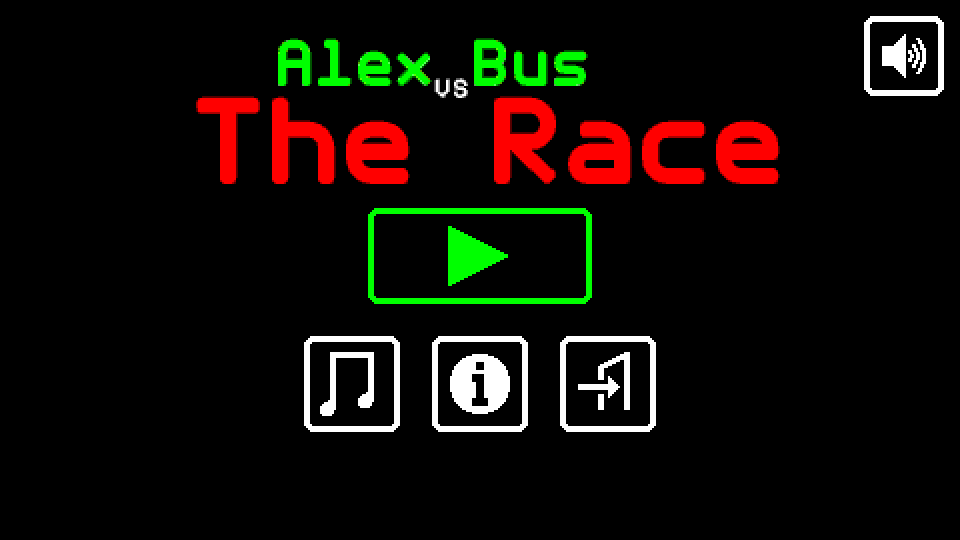
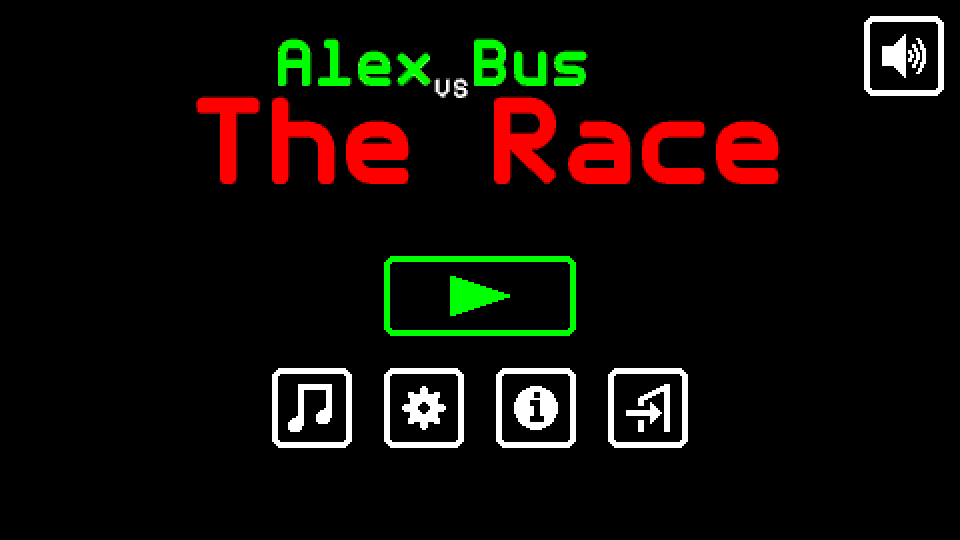
Pre-release: pre6

Changed region(s): [[0.2812, 0.3852, 0.7188, 0.8296]]

diff --git a/core/src/org/alexvsbus/Defs.java b/core/src/org/alexvsbus/Defs.java
@@ -393,7 +393,7 @@ public class Defs {
     //
 
     //Version and repository
-    public static final String VERSION = "pre5";
+    public static final String VERSION = "pre6";
     public static final String REPOSITORY = "https://github.com/M374LX/alexvsbus-java";
 
     //Maximum delta time

diff --git a/README.md b/README.md
@@ -51,9 +51,7 @@ When using a keyboard, the controls are:
 
 **F6:** Toggle audio
 
-**F7:** Toggle scanlines*
-
-*Scanlines are not yet available in a release, only in the main Git branch.
+**F7:** Toggle scanlines
 
 On French (AZERTY) keyboards, W becomes Z and A becomes Q.
 
@@ -83,7 +81,7 @@ After installing Java and downloading the .jar file, on Windows, a double-click
 on the .jar file should be enough to start the game. To start it from the CLI,
 the command is:
 ```
-java -jar alexvsbus-desktop-pre5.jar
+java -jar alexvsbus-desktop-pre6.jar
 ```
 
 
@@ -92,7 +90,7 @@ java -jar alexvsbus-desktop-pre5.jar
 On PC, the game supports some command line options. For example, to use the
 option --fullscreen, the full command is:
 ```
-java -jar alexvsbus-desktop-pre5.jar --fullscreen
+java -jar alexvsbus-desktop-pre6.jar --fullscreen
 ```
 
 The options are:
@@ -134,10 +132,6 @@ Supported height values:
 192
 ```
 
-**Note:** The options above refer to the latest commit and have changed since
-the latest pre-release. For the options available in the latest pre-release,
-see https://github.com/M374LX/alexvsbus-java/blob/pre5/README.md.
-
 
 ## Building from source
 
@@ -160,7 +154,7 @@ systems (including Linux):
 
 On Windows, replace "./gradlew" with "gradlew.bat".
 
-The built .jar file will be at ``desktop/build/libs/desktop-pre5.jar``.
+The built .jar file will be at ``desktop/build/libs/desktop-pre6.jar``.
 
 Alternatively, the following command allows running the game without keeping the
 build:
@@ -215,8 +209,8 @@ On Windows, replace "./gradlew" with "gradlew.bat".
 ## Project status and plans
 
 While it is quite close to becoming a finished game, there are still plans to
-improve the support for different screen sizes, offer the user more settings,
-and improve the documentation, as well as more testing.
+offer the user more settings and improve the documentation, as well as more
+testing.
 
 There are also plans to port the game from Java/libGDX to C/SDL. This is why
 the GitHub repository contains "java" in its name and also why many Java

diff --git a/docs/News.md b/docs/News.md
@@ -1,3 +1,14 @@
+## Pre-release: pre6 (2023/04/14)
+
+Sixth pre-release, which includes:
+
+* Improved support for different screen sizes
+* Scanlines visual effect
+* Immersive mode on Android
+* New settings dialog
+* No more left side camera locking
+
+
 ## Pre-release: pre5 (2022/09/24)
 
 Fifth pre-release, which includes:
